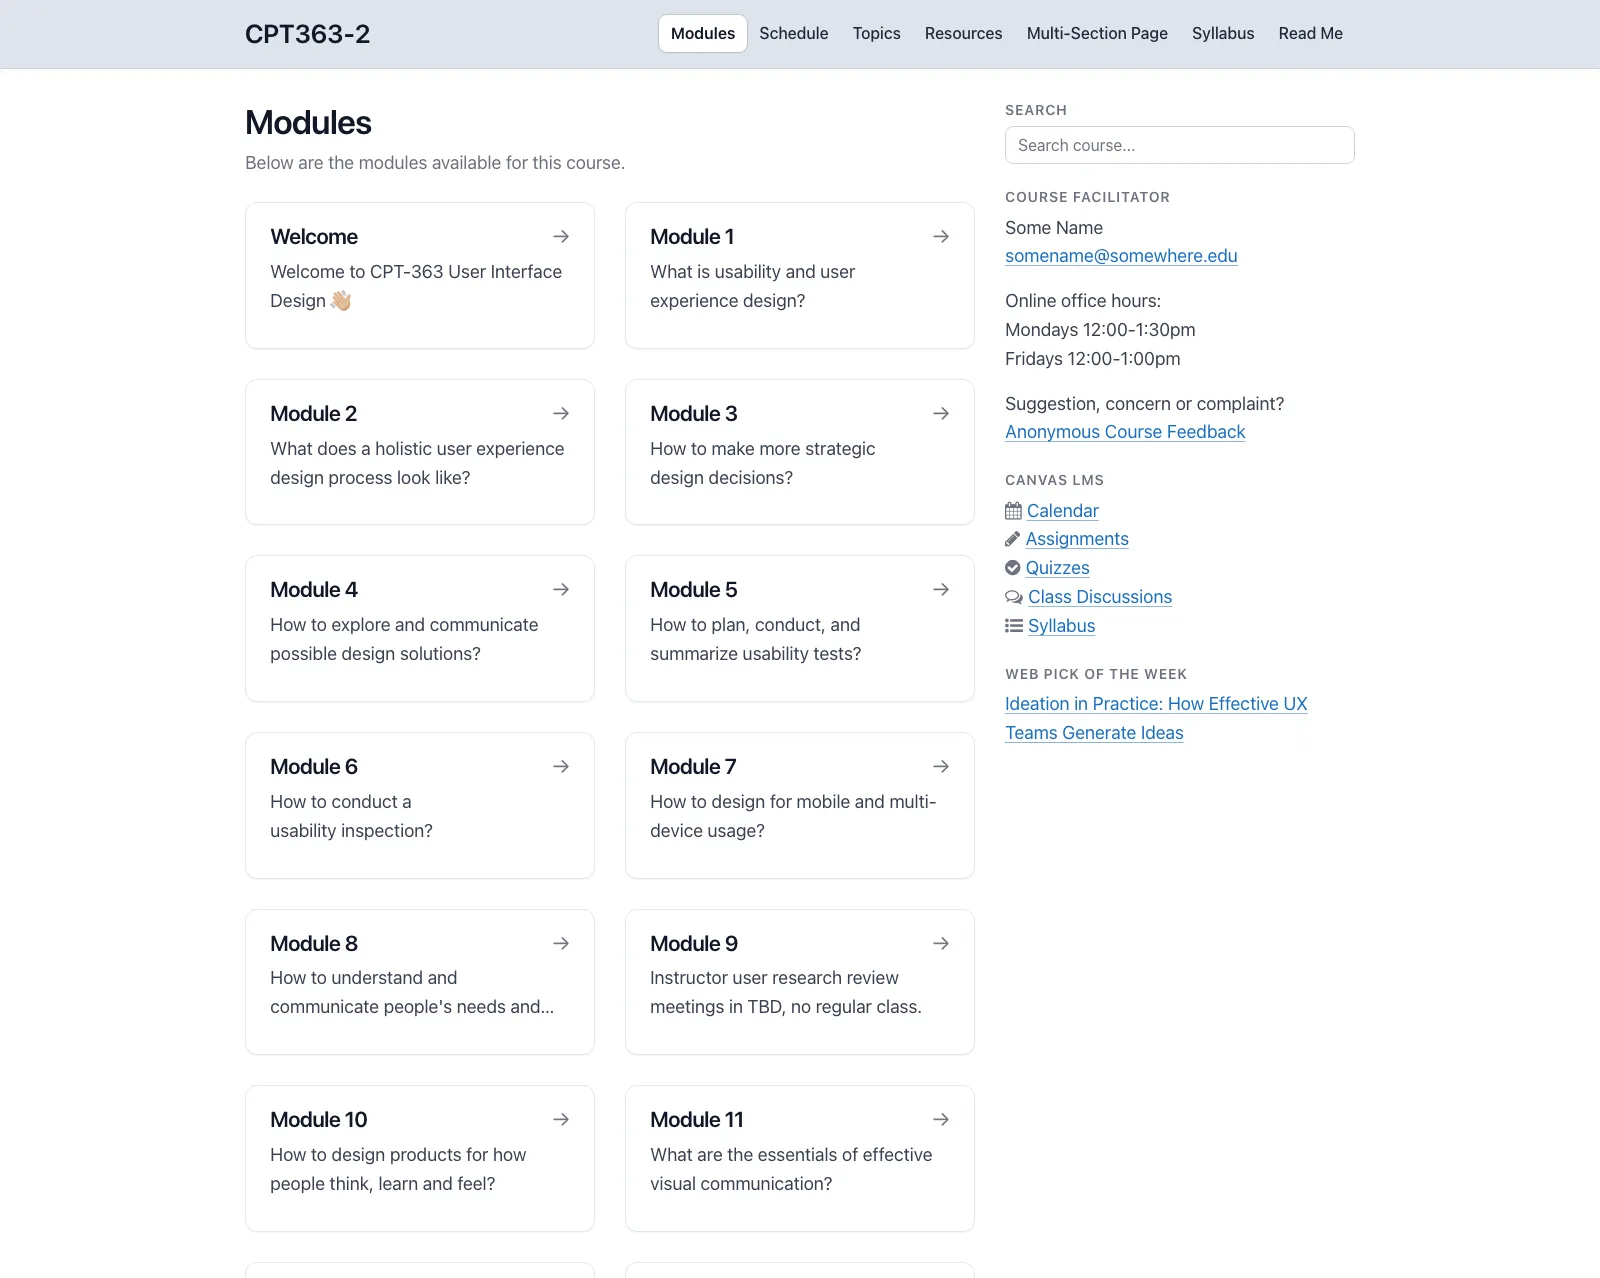
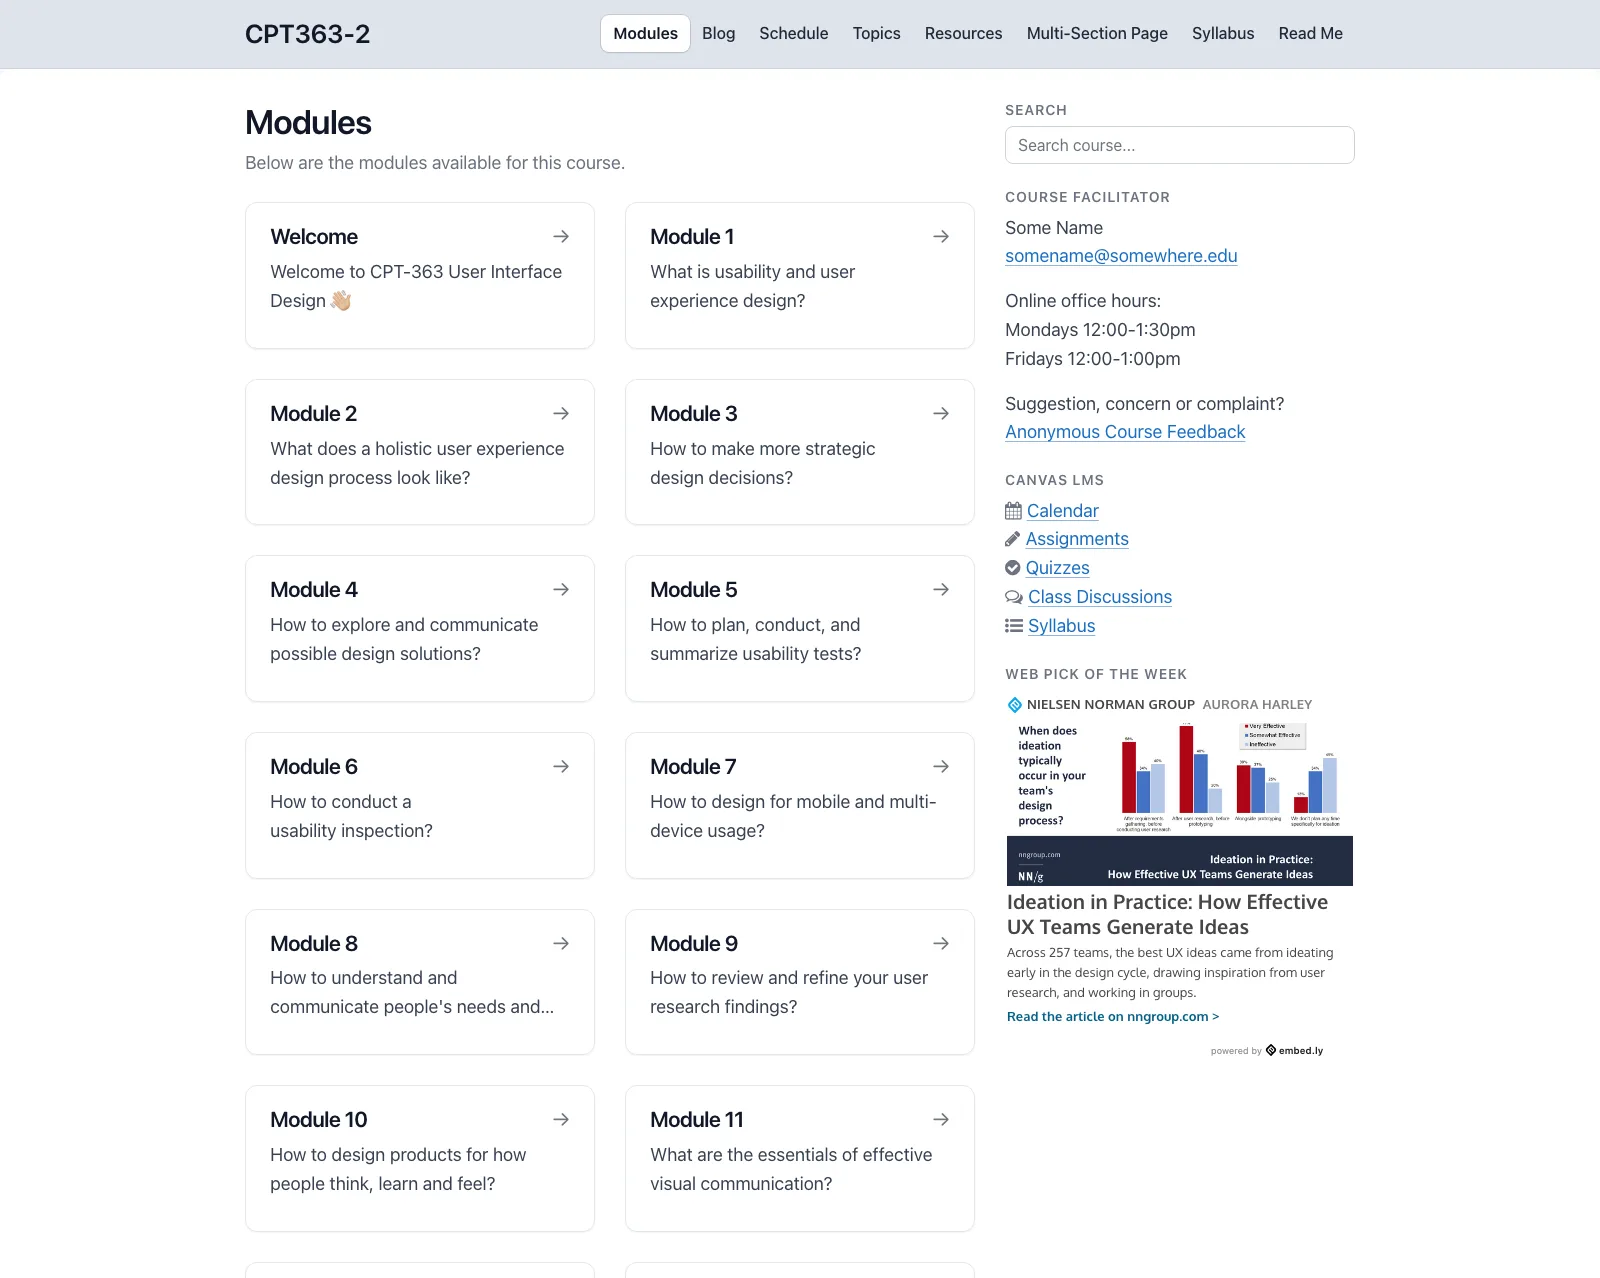
Update the README screenshots for the three course formats.

Changed region(s): [[0.625, 0.5493, 0.8438, 0.8239], [0.4062, 0.7629, 0.5938, 0.7934], [0.375, 0.0, 0.4688, 0.061]]

diff --git a/README.md b/README.md
@@ -12,7 +12,7 @@
 
 <p>A free, open-source alternative to <a href="https://github.com/hibbitts-design/grav-skeleton-helios-course-hub">Grav Helios Course Hub</a>, built on <a href="https://getgrav.org">Grav CMS</a> and the <a href="https://github.com/hibbitts-design/grav-theme-bootstrap4-open-matter">Bootstrap4 Open Matter</a> theme, with Markdown file-based content, a built-in Admin panel, and no database required. Helios Course Hub, built on the premium Helios theme, adds a more refined design, a table of contents on every page, and automatic single or multi-course setup.</p>
 
-<a href="https://raw.githubusercontent.com/hibbitts-design/grav-skeleton-multicourse-hub/refs/heads/master/screenshots/screenshot.webp"><picture><source media="(prefers-color-scheme: dark)" srcset="https://raw.githubusercontent.com/hibbitts-design/grav-skeleton-multicourse-hub/refs/heads/master/screenshots/screenshot-dark.webp"><img alt="MultiCourse Hub homepage with course cards for three example courses" src="https://raw.githubusercontent.com/hibbitts-design/grav-skeleton-multicourse-hub/refs/heads/master/screenshots/screenshot.webp" width="49%"></picture></a> <a href="https://raw.githubusercontent.com/hibbitts-design/grav-skeleton-multicourse-hub/refs/heads/master/screenshots/screenshot-2.webp"><picture><source media="(prefers-color-scheme: dark)" srcset="https://raw.githubusercontent.com/hibbitts-design/grav-skeleton-multicourse-hub/refs/heads/master/screenshots/screenshot-2-dark.webp"><img alt="Course homepage for CPT363-1 with weekly reminders, required reading, and a course sidebar with LMS links" src="https://raw.githubusercontent.com/hibbitts-design/grav-skeleton-multicourse-hub/refs/heads/master/screenshots/screenshot-2.webp" width="49%"></picture></a>
+<a href="https://raw.githubusercontent.com/hibbitts-design/grav-skeleton-multicourse-hub/refs/heads/master/screenshots/screenshot.webp"><picture><source media="(prefers-color-scheme: dark)" srcset="https://raw.githubusercontent.com/hibbitts-design/grav-skeleton-multicourse-hub/refs/heads/master/screenshots/screenshot-dark.webp"><img alt="MultiCourse Hub homepage with course cards for three example courses, each organised a different way" src="https://raw.githubusercontent.com/hibbitts-design/grav-skeleton-multicourse-hub/refs/heads/master/screenshots/screenshot.webp" width="49%"></picture></a> <a href="https://raw.githubusercontent.com/hibbitts-design/grav-skeleton-multicourse-hub/refs/heads/master/screenshots/screenshot-2.webp"><picture><source media="(prefers-color-scheme: dark)" srcset="https://raw.githubusercontent.com/hibbitts-design/grav-skeleton-multicourse-hub/refs/heads/master/screenshots/screenshot-2-dark.webp"><img alt="Course homepage for CPT363-1 with this week's module, reminders and required reading, and a course sidebar with LMS links" src="https://raw.githubusercontent.com/hibbitts-design/grav-skeleton-multicourse-hub/refs/heads/master/screenshots/screenshot-2.webp" width="49%"></picture></a>
 
 <a href="https://raw.githubusercontent.com/hibbitts-design/grav-skeleton-multicourse-hub/refs/heads/master/screenshots/screenshot-3.webp"><picture><source media="(prefers-color-scheme: dark)" srcset="https://raw.githubusercontent.com/hibbitts-design/grav-skeleton-multicourse-hub/refs/heads/master/screenshots/screenshot-3-dark.webp"><img alt="Modules page for CPT363-2 with a card for each module, and the course sidebar on the right" src="https://raw.githubusercontent.com/hibbitts-design/grav-skeleton-multicourse-hub/refs/heads/master/screenshots/screenshot-3.webp" width="49%"></picture></a>
 
